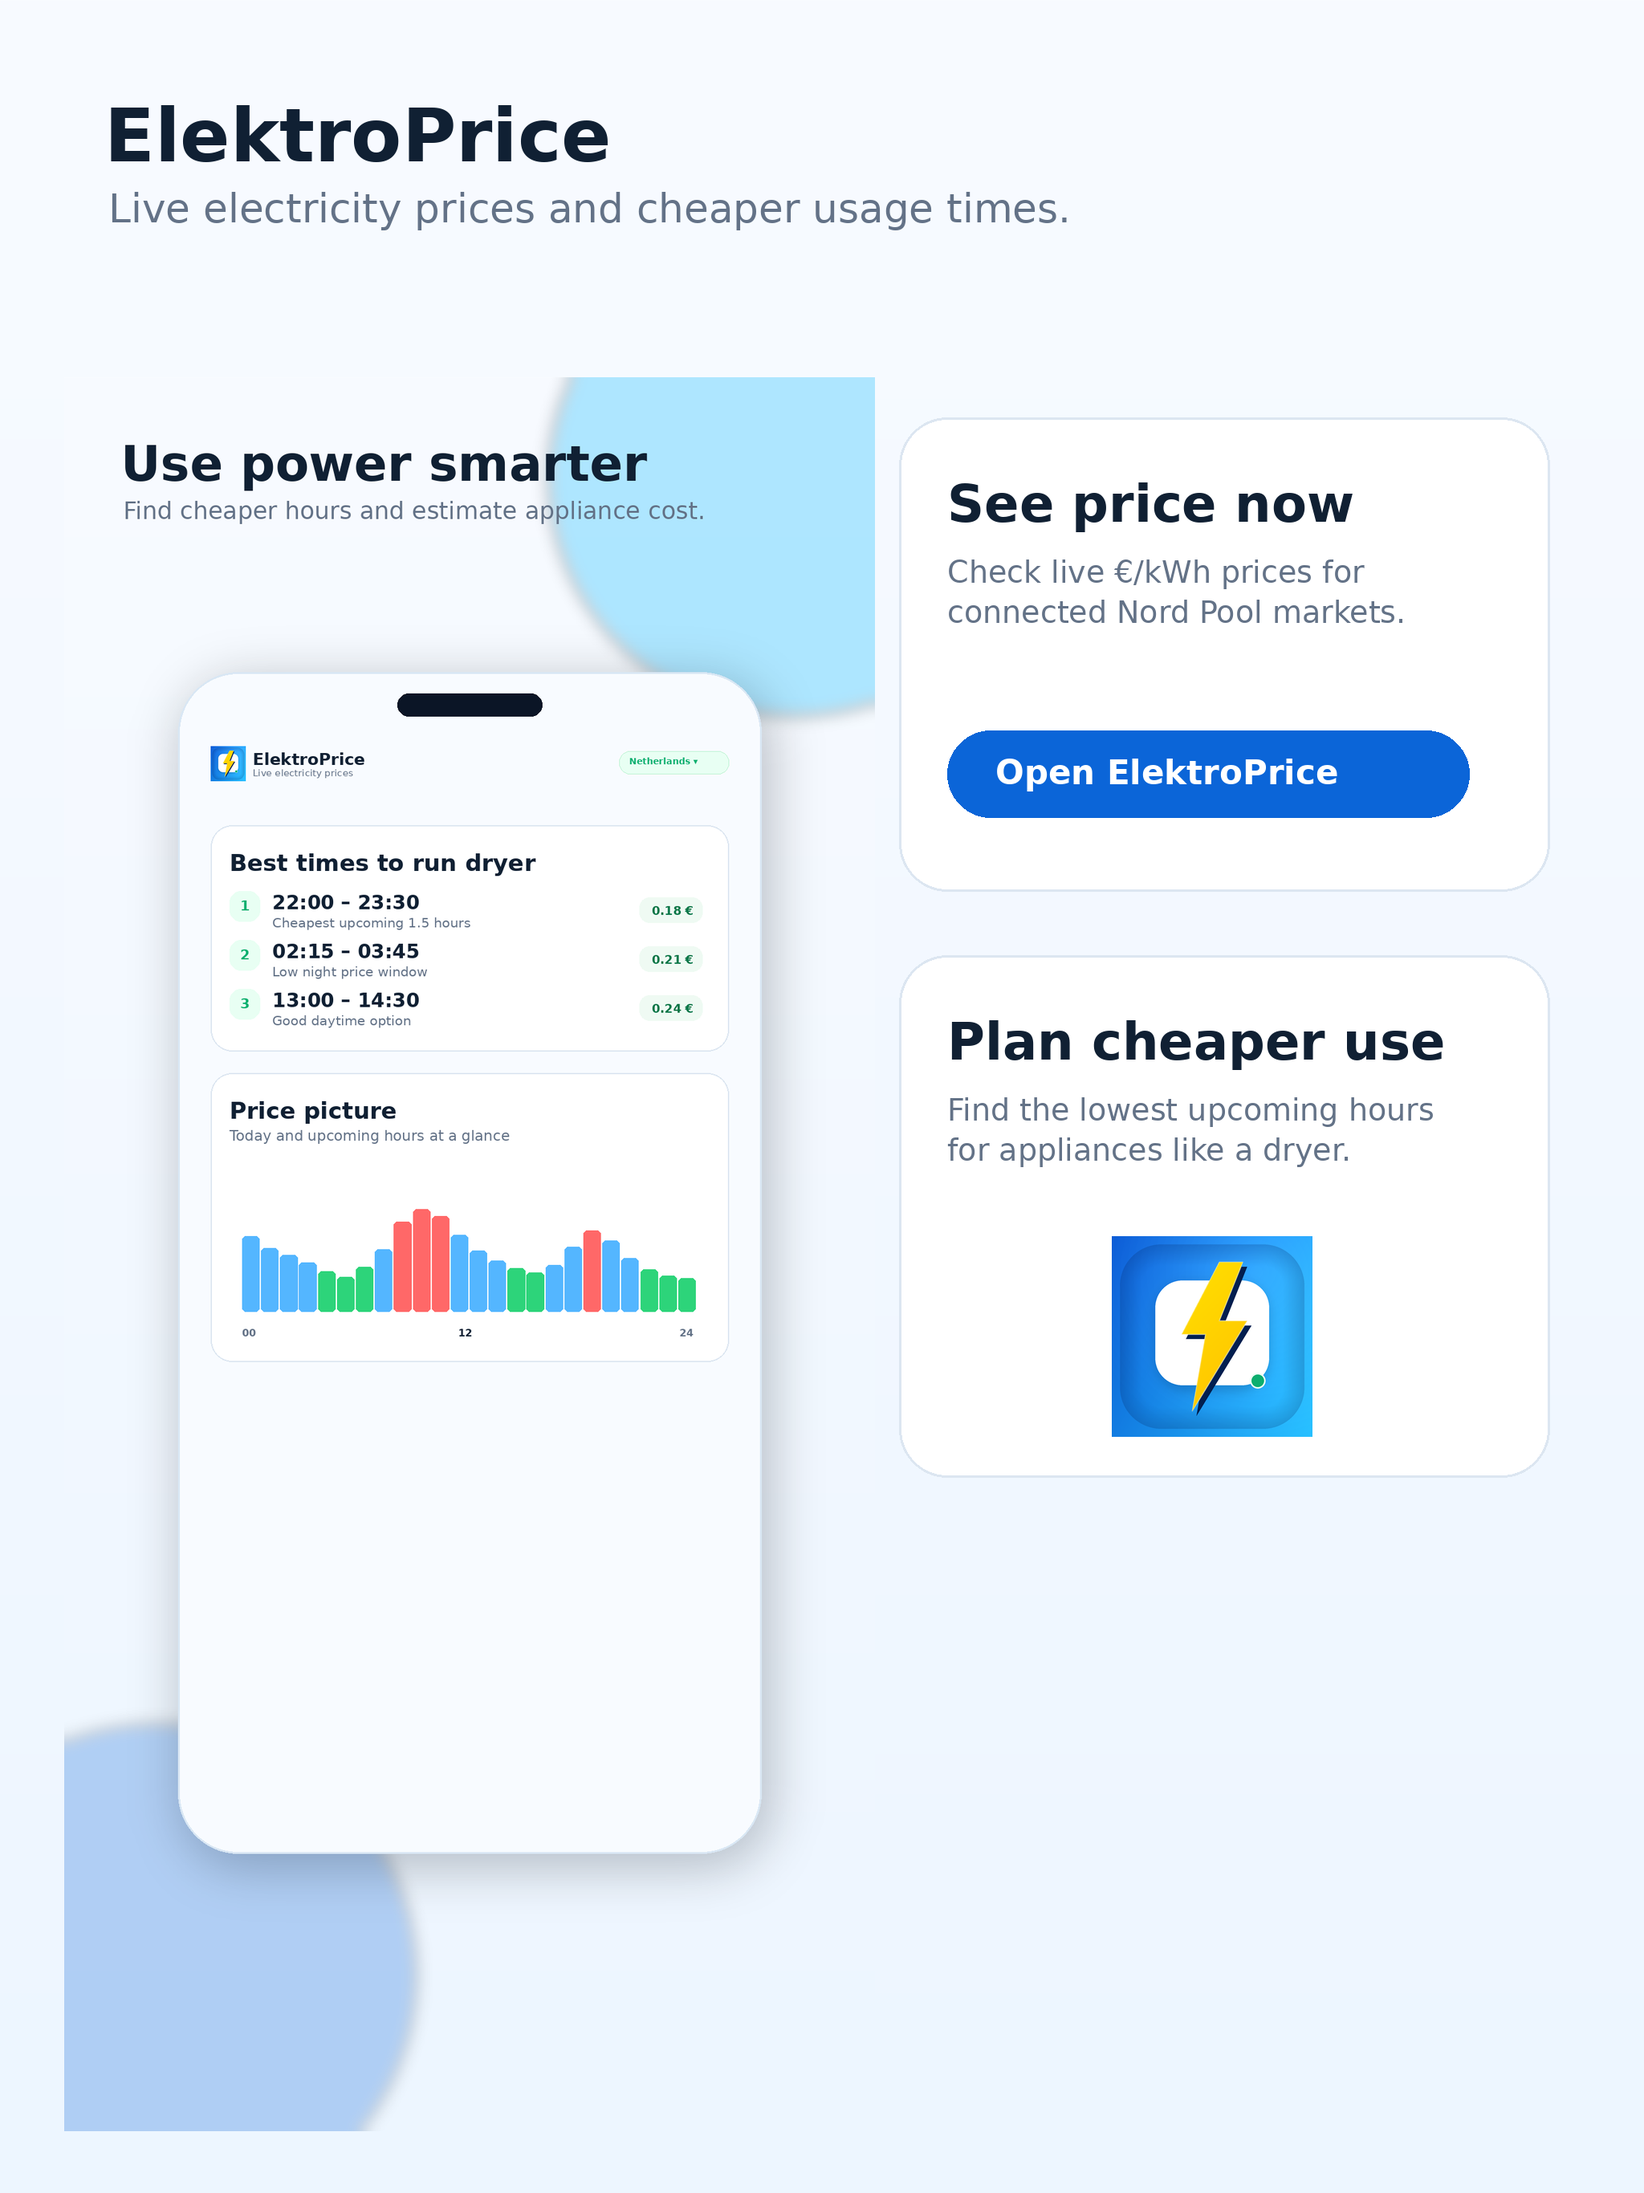
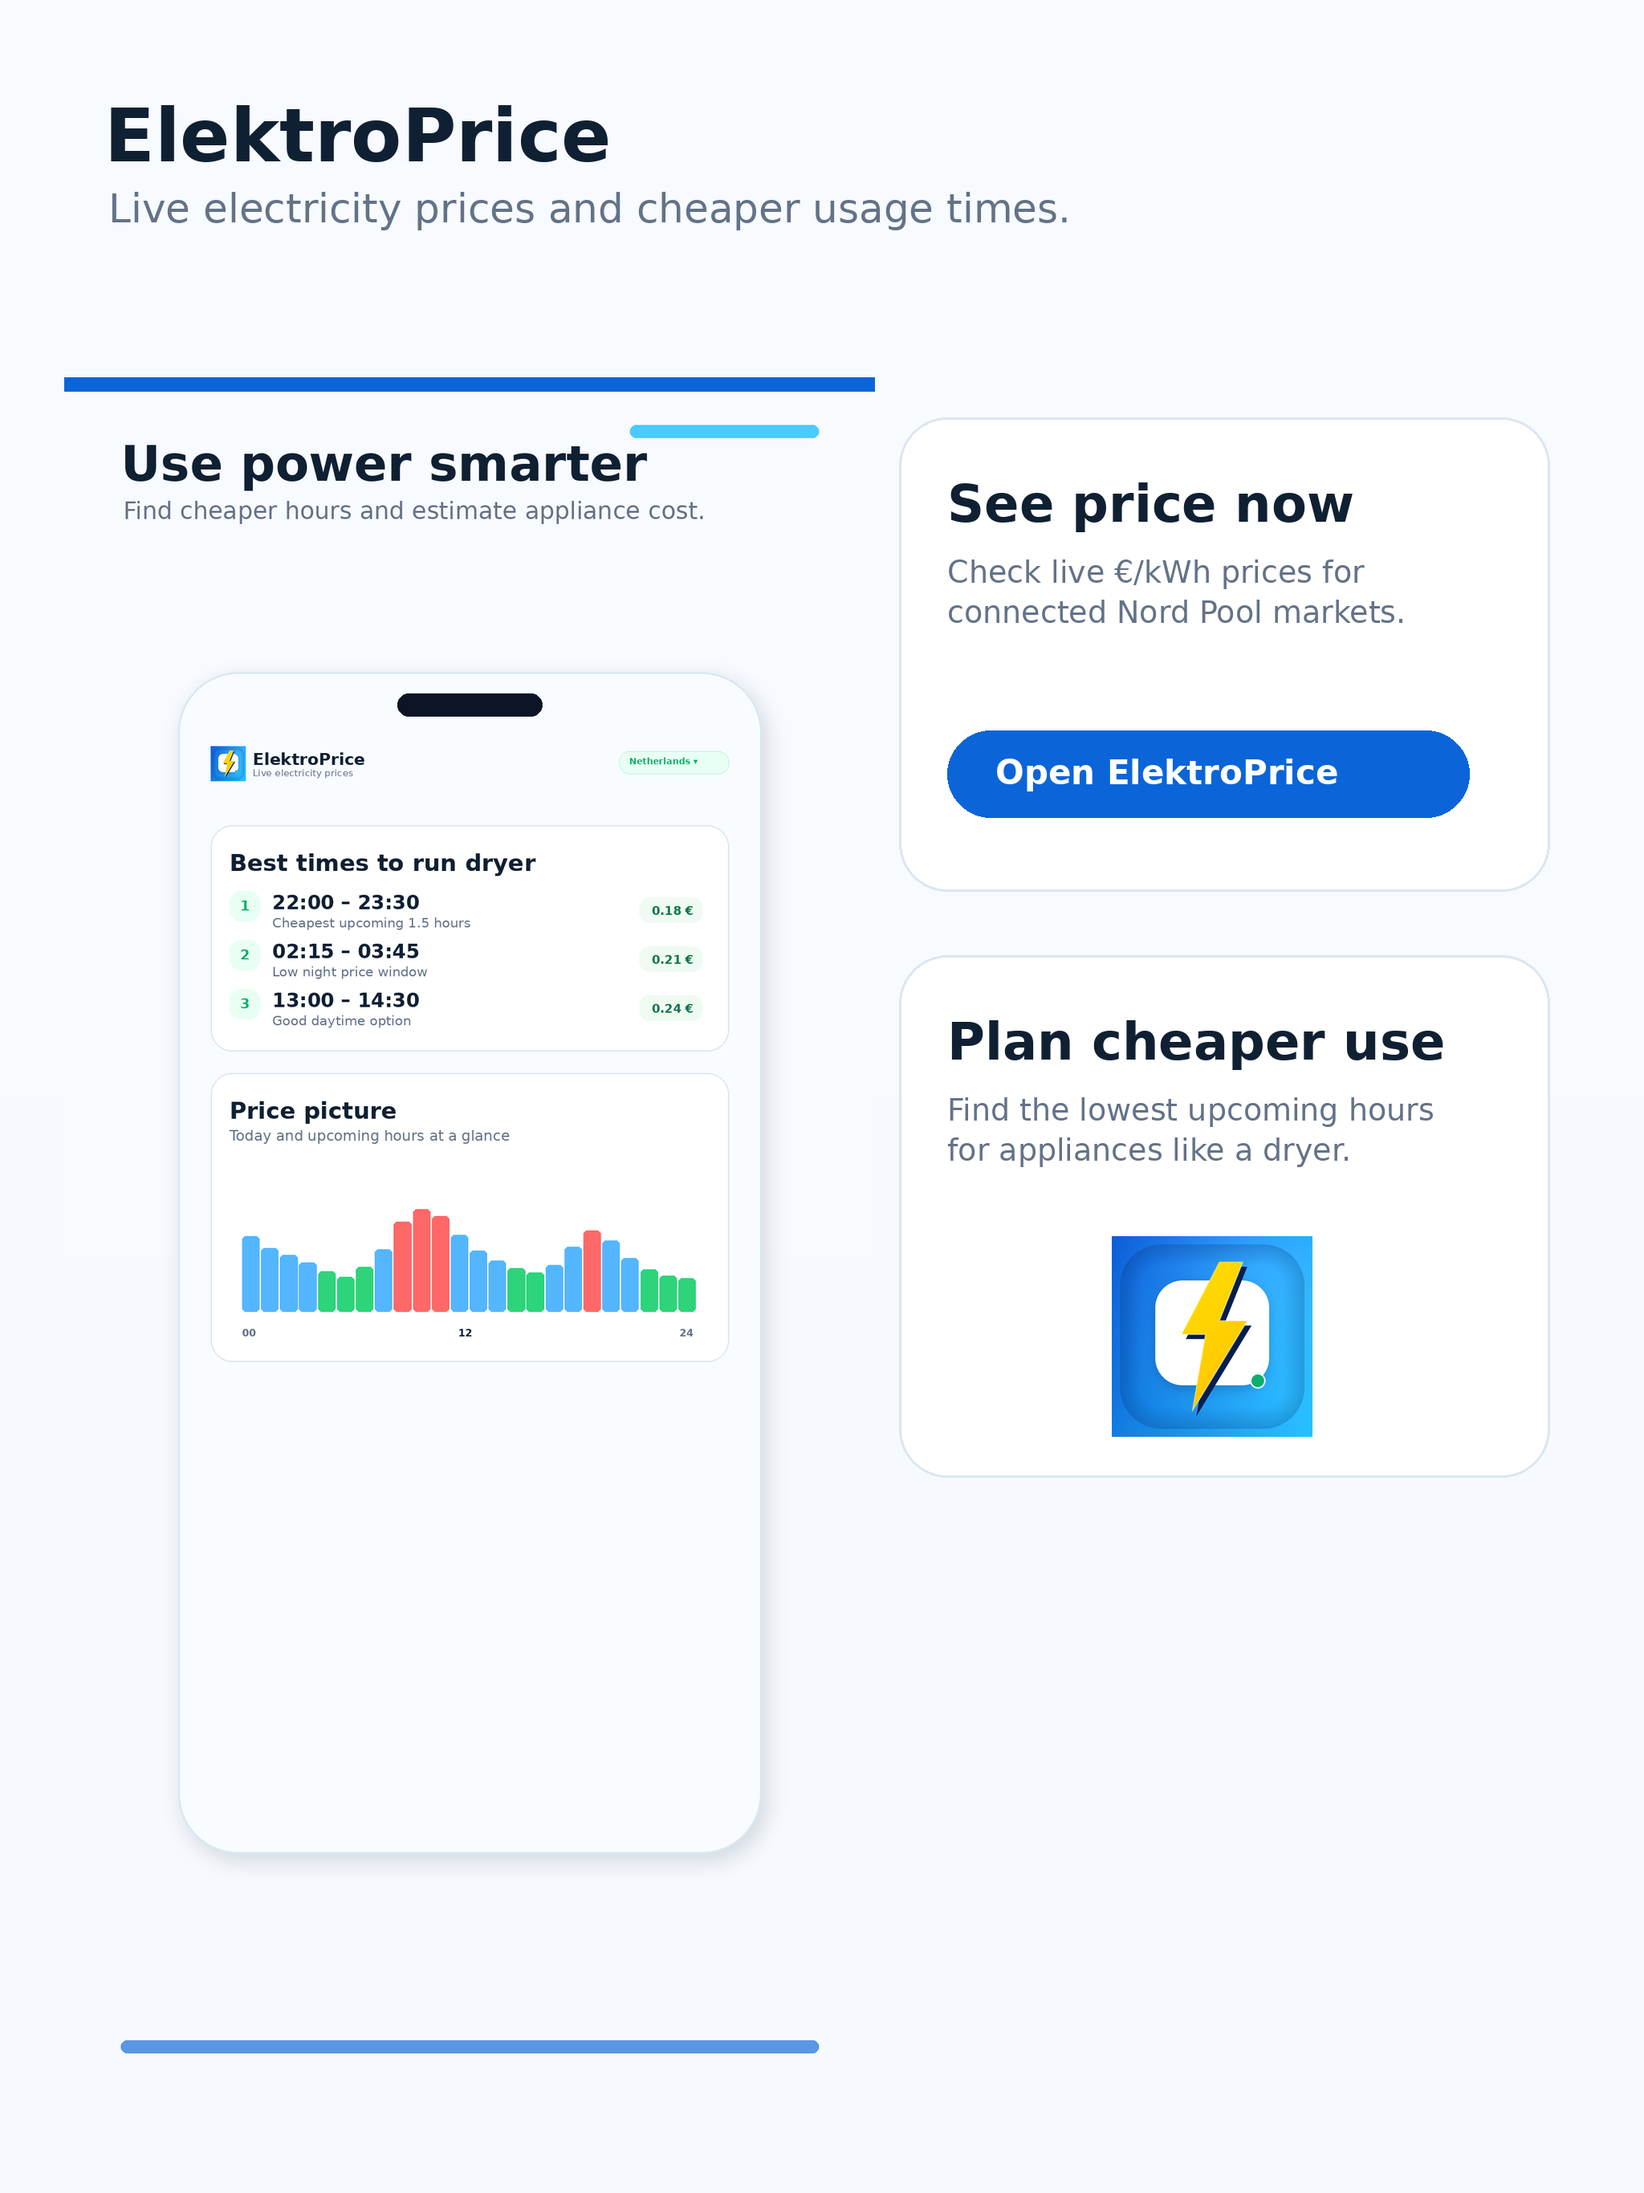
Sharpen Elektoprice App Store screenshots

Changed region(s): [[0.0312, 0.7778, 0.4688, 0.9956], [0.0312, 0.1556, 0.5312, 0.3422]]

diff --git a/apps/mobile/scripts/generate_appstore_screenshots.py b/apps/mobile/scripts/generate_appstore_screenshots.py
@@ -36,7 +36,7 @@ def round_rect(draw, box, r, fill, outline=None, width=1):
     draw.rounded_rectangle(box, radius=r, fill=fill, outline=outline, width=width)
 
 
-def gradient(size, c1=(248,251,255), c2=(237,246,255)):
+def gradient(size, c1=(248,251,255), c2=(246,250,255)):
     w,h=size
     im=Image.new('RGB',size)
     px=im.load()
@@ -84,7 +84,7 @@ def app_header(draw, im, x, y, w, scale=1):
 
 def phone_frame(base, left, top, width, height, content_fn):
     d=ImageDraw.Draw(base)
-    base.alpha_composite(shadow_layer(base.size, [left+10,top+18,left+width+10,top+height+18], 95, 70, 40))
+    base.alpha_composite(shadow_layer(base.size, [left+8,top+12,left+width+8,top+height+12], 95, 38, 16))
     round_rect(d, [left,top,left+width,top+height], 96, '#f8fbff', '#d9e7f4', 3)
     # dynamic island
     round_rect(d, [left+width//2-115, top+34, left+width//2+115, top+70], 22, '#0b1526')
@@ -196,10 +196,12 @@ def make_store_image(name, title, subtitle, ui_fn, size=(W,H)):
     im=gradient(size)
     d=ImageDraw.Draw(im)
     # background brand blobs
-    blob=Image.new('RGBA',size,(0,0,0,0)); bd=ImageDraw.Draw(blob)
-    bd.ellipse([w-520,-220,w+260,540],fill=(39,192,255,90))
-    bd.ellipse([-260,h-650,560,h+150],fill=(11,101,216,70))
-    im=Image.alpha_composite(im, blob.filter(ImageFilter.GaussianBlur(12)))
+    # Clean, non-foggy App Store artwork: crisp flat background with solid brand accents.
+    accent=Image.new('RGBA',size,(0,0,0,0)); ad=ImageDraw.Draw(accent)
+    ad.rectangle([0,0,w,22], fill=(11,101,216,255))
+    ad.rounded_rectangle([w-390,76,w-90,96], radius=10, fill=(39,192,255,210))
+    ad.rounded_rectangle([90,h-145,w-90,h-125], radius=10, fill=(11,101,216,170))
+    im=Image.alpha_composite(im, accent)
     d=ImageDraw.Draw(im)
     d.text((90,92),title,font=font(78,True),fill=INK)
     wrapped(d,subtitle,(94,190),w-188,font(38),MUTED,12,2)
